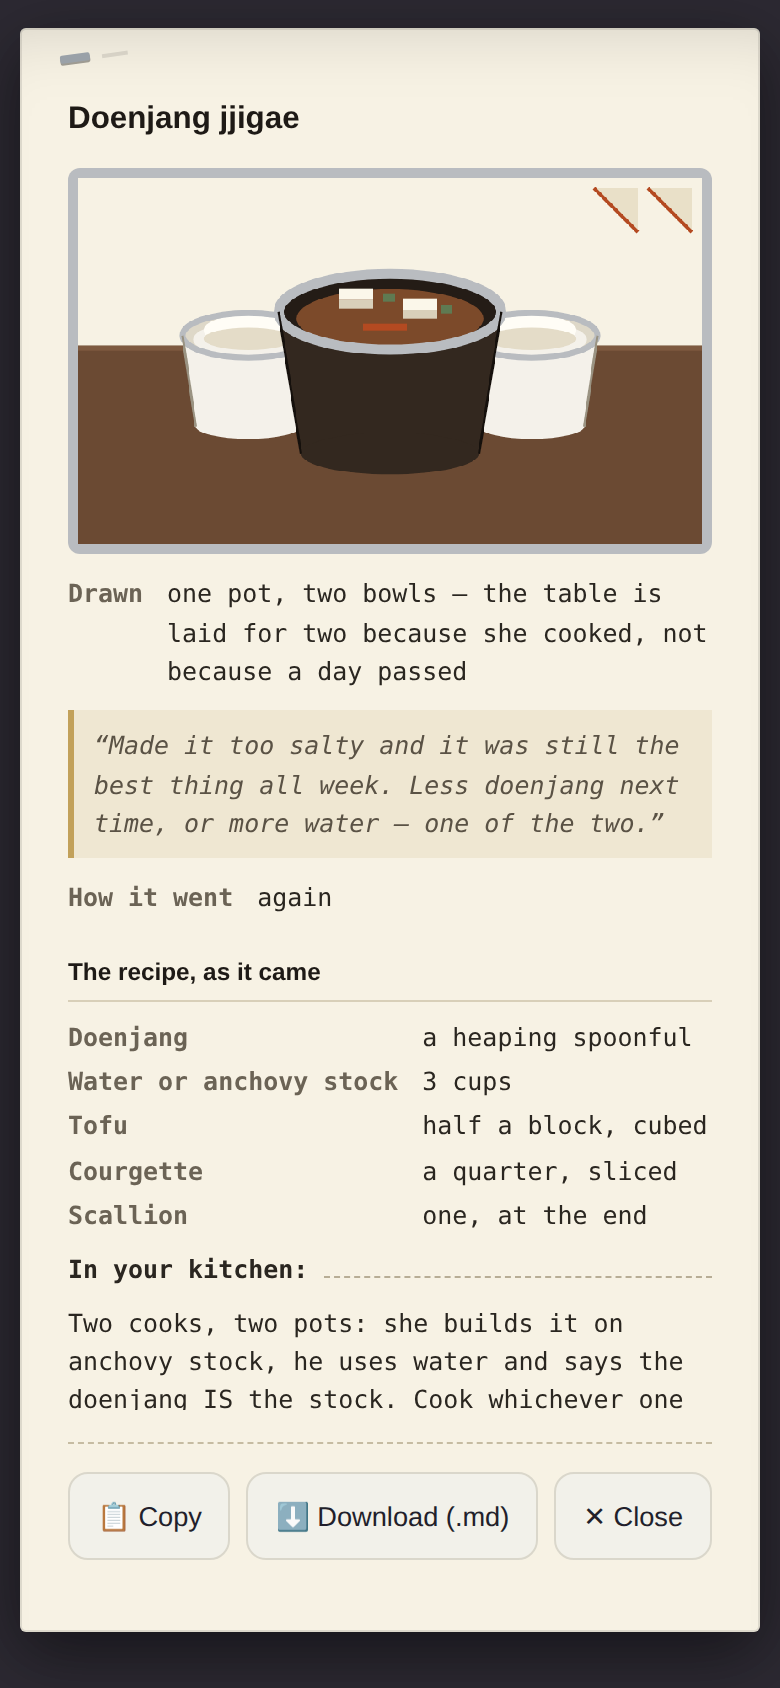
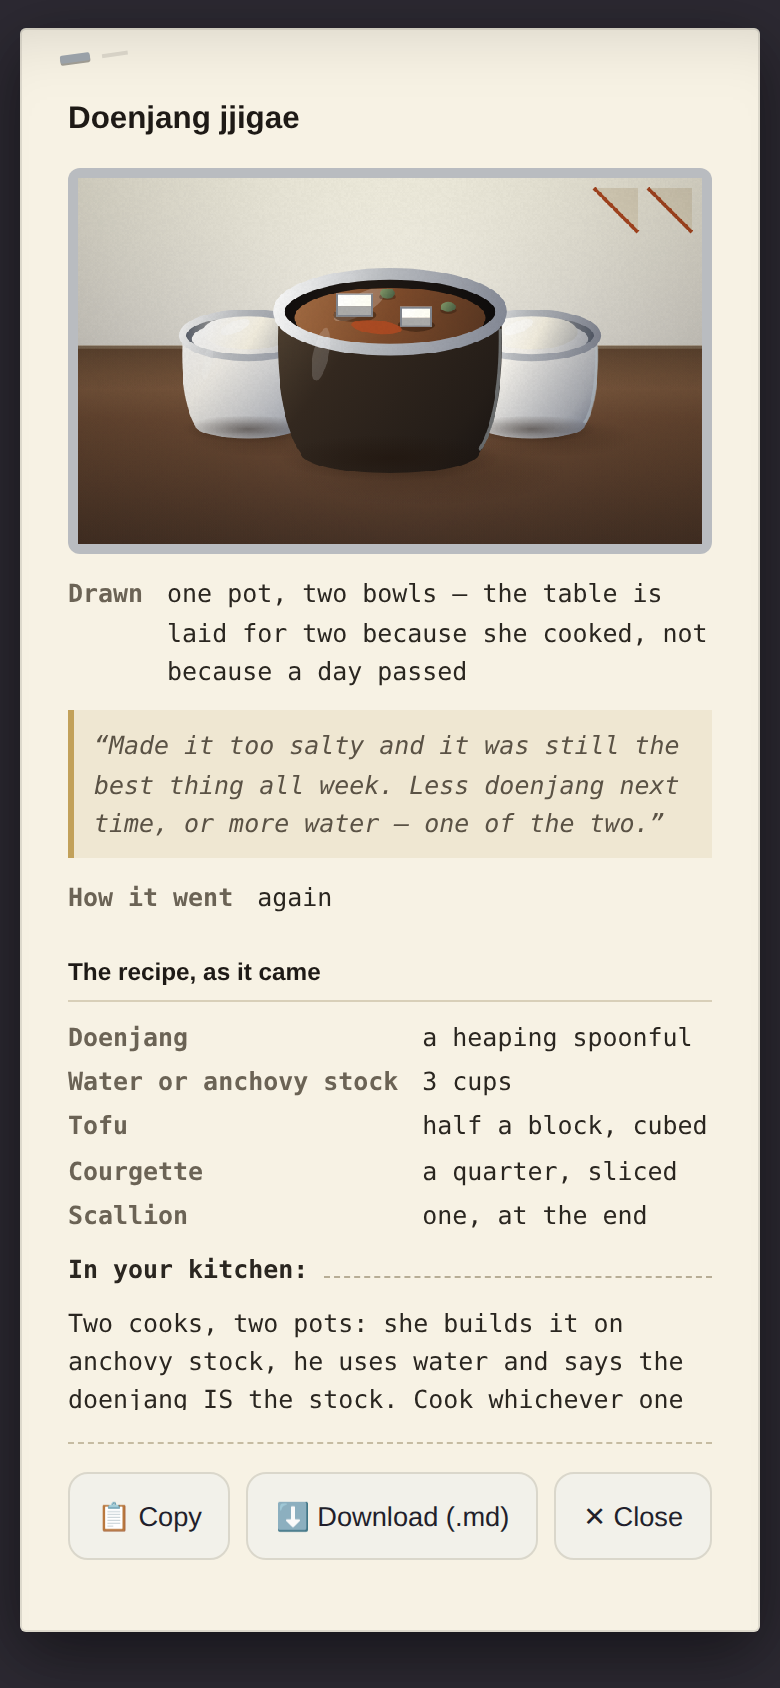
A light model for the mocks, because "cute" is what you say about slop
AJ laughed at the three pages and the owner called them "fairly slop shloppy",
then asked how to reach the quality of the games she actually plays. This is the
first half of the answer, and it is a missing MODEL rather than a missing knack.

What the first pass had: two values an object, no light direction, no contact
shadow, no cast shadow, no specular, no texture, hard geometric edges. That is
not a drawing, it is a diagram.

What every object goes through now, once, written as a library rather than per
object: a warm key from the upper left and a cool bounce off the counter; a
material as a five-stop ramp instead of a colour, warm on the way up and cool on
the way down, because a colour lightened neutrally is what makes plastic; a cast
shadow thrown away from the key; a contact shadow where any form meets its
surface; a mouth gradient so you look INTO a vessel; a rim that is bright where
the key hits and dark where it does not, instead of one flat stroke; one
specular sliver per glossy thing; and grain over the whole frame so no surface
is a flat fill.

The food got the same treatment on the second pass, because once the pot had a
light model and the tofu did not, the tofu looked WORSE than before — flat
rectangles floating on a lit surface.

compare-page1.png is the same page before and after, rendered from git so the
comparison is real rather than remembered.

This is necessary and it is not sufficient, and the write-up to the owner says
[…]

Changed region(s): [[0.0923, 0.0924, 0.9231, 0.3389]]

diff --git a/docs/mocks/2026-09-15-simmer-book/bookpages.js b/docs/mocks/2026-09-15-simmer-book/bookpages.js
@@ -31,6 +31,57 @@
     egg:"#E8C15A",
     nori:"#23301F"
   };
+  /* ---------------- THE LIGHT MODEL ----------------
+     The first pass of these pictures was flat canvas primitives: two values an object, no contact
+     shadow, no specular, no texture, no light direction. That is not a talent gap, it is a MISSING
+     MODEL — so this is the model, written once and applied by every object, the way the 3D view was
+     fixed (docs/3D-LOG.md): one warm key from the upper left, one cool bounce off the counter, a
+     contact shadow where any form meets its surface, one specular per glossy material, and grain
+     over the whole frame at the end so nothing is a vector shape sitting on paper. */
+  const KEY={x:-0.62,y:-0.78};                       /* upper-left, and every highlight obeys it */
+  const hex=h=>[parseInt(h.slice(1,3),16),parseInt(h.slice(3,5),16),parseInt(h.slice(5,7),16)];
+  const rgb=c=>"#"+c.map(v=>Math.max(0,Math.min(255,Math.round(v))).toString(16).padStart(2,"0")).join("");
+  /* warm on the way up, cool on the way down — a single colour lightened neutrally is what makes
+     plastic. Light adds red first; shadow keeps blue longest. */
+  const lit =(h,t)=>{const c=hex(h);return rgb([c[0]+255*t*0.92, c[1]+255*t*0.80, c[2]+255*t*0.58]);};
+  const shade=(h,t)=>{const c=hex(h);return rgb([c[0]*(1-t*1.05), c[1]*(1-t*0.98), c[2]*(1-t*0.80)]);};
+  /* a material is a RAMP, not a colour: five stops from bounce to specular */
+  const MAT=b=>({deep:shade(b,.55),core:shade(b,.28),base:b,high:lit(b,.16),spec:lit(b,.42)});
+
+  /* a contact shadow — the single cheapest thing that makes an object SIT rather than float */
+  function contact(g,cx,cy,rx,ry,strength){
+    const gr=g.createRadialGradient(cx,cy,0,cx,cy,rx);
+    gr.addColorStop(0,"rgba(30,18,10,"+(strength||0.55)+")");
+    gr.addColorStop(0.55,"rgba(30,18,10,"+(strength||0.55)*0.45+")");
+    gr.addColorStop(1,"rgba(30,18,10,0)");
+    g.save();g.translate(cx,cy);g.scale(1,ry/rx);g.translate(-cx,-cy);
+    g.fillStyle=gr;g.beginPath();g.arc(cx,cy,rx,0,7);g.fill();g.restore();
+  }
+  /* a cast shadow, thrown away from the key */
+  function cast(g,cx,cy,rx,ry){
+    g.save();g.globalAlpha=0.34;
+    contact(g,cx-KEY.x*rx*0.55,cy-KEY.y*ry*0.28,rx*1.25,ry*1.05,0.7);
+    g.restore();
+  }
+  /* one specular sliver, on the side the key is on, never a symmetric shine */
+  function spec(g,cx,cy,rx,ry,a){
+    g.save();g.globalAlpha=a==null?0.75:a;g.fillStyle="#FFFFFF";
+    g.beginPath();g.ellipse(cx+KEY.x*rx*0.52,cy+KEY.y*ry*0.55,rx*0.30,ry*0.34,-0.5,0,7);g.fill();
+    g.restore();
+  }
+  /* grain, over the FRAME, so no surface is a flat fill. Cheap and it is most of the difference
+     between "a shape" and "a thing". */
+  let NOISE=null;
+  function grain(g,W,H,amt){
+    if(!NOISE){const n=document.createElement("canvas");n.width=n.height=96;const q=n.getContext("2d");
+      const d=q.createImageData(96,96);
+      for(let i=0;i<d.data.length;i+=4){const v=200+Math.random()*55;d.data[i]=d.data[i+1]=d.data[i+2]=v;d.data[i+3]=255;}
+      q.putImageData(d,0,0);NOISE=n;}
+    g.save();g.globalAlpha=amt==null?0.085:amt;g.globalCompositeOperation="multiply";
+    for(let y=0;y<H;y+=96)for(let x=0;x<W;x+=96)g.drawImage(NOISE,x,y);
+    g.restore();
+  }
+
   const px=(g,u)=>(x,y,w,h,c)=>{g.fillStyle=c;g.fillRect(Math.round(x*u),Math.round(y*u),Math.max(1,Math.round(w*u)),Math.max(1,Math.round(h*u)));};
 
   /* A VESSEL, in the one camera Pili settled: where your eyes are at a counter — you see the MOUTH
@@ -38,29 +89,73 @@
      narrows to its foot, and a rim where the two meet. Not a rectangle — the first render of these
      drew boxes and they read as toasters. */
   function vessel(g,cx,baseY,w,h,o){
-    const ry=w*0.17, topY=baseY-h;
+    const ry=w*0.17, topY=baseY-h, M=MAT(o.body);
     g.save();
-    /* the body, narrowing toward the foot */
-    g.fillStyle=o.body;
+    /* 1 · the cast shadow, thrown away from the key, BEFORE anything else */
+    cast(g,cx,baseY+ry*0.30,w*0.50,ry*0.85);
+    /* 2 · the body, across the key axis: highlight, base, core shadow, and a bounce at the very edge */
+    const bg=g.createLinearGradient(cx-w*0.55,topY-h*0.2,cx+w*0.55,baseY+h*0.1);
+    bg.addColorStop(0,M.high);bg.addColorStop(0.34,M.base);bg.addColorStop(0.78,M.core);bg.addColorStop(1,M.deep);
+    g.fillStyle=bg;
     g.beginPath();
     g.moveTo(cx-w/2,topY);
-    g.lineTo(cx+w/2,topY);
+    g.bezierCurveTo(cx-w*0.52,topY+h*0.55, cx-w*0.46,baseY-h*0.12, cx-w*0.40,baseY);
     g.lineTo(cx+w*0.40,baseY);
-    g.lineTo(cx-w*0.40,baseY);
+    g.bezierCurveTo(cx+w*0.46,baseY-h*0.12, cx+w*0.52,topY+h*0.55, cx+w/2,topY);
     g.closePath();g.fill();
-    /* the foot it stands on */
-    g.beginPath();g.ellipse(cx,baseY,w*0.40,ry*0.55,0,0,7);g.fill();
-    /* the mouth: the dark inside first, so the contents sit IN something */
-    g.fillStyle=o.inside||"#1A1512";
-    g.beginPath();g.ellipse(cx,topY,w/2,ry,0,0,7);g.fill();
-    if(o.fill){g.fillStyle=o.fill;g.beginPath();g.ellipse(cx,topY+ry*0.18,w*0.42,ry*0.78,0,0,7);g.fill();}
+    g.beginPath();g.ellipse(cx,baseY,w*0.40,ry*0.52,0,0,7);g.fill();
+    /* 3 · the bounce off the counter — a cool edge on the shadow side, which is what stops a
+       gradient reading as plastic */
+    g.strokeStyle="rgba(196,208,214,0.45)";g.lineWidth=2;
+    g.beginPath();g.moveTo(cx+w*0.495,topY+h*0.12);
+    g.bezierCurveTo(cx+w*0.50,topY+h*0.6, cx+w*0.45,baseY-h*0.12, cx+w*0.40,baseY-2);g.stroke();
+    /* 4 · the contact shadow where it meets the counter */
+    contact(g,cx,baseY+ry*0.12,w*0.50,ry*0.62,0.5);
+    /* 5 · the mouth: dark interior, deepest at the far side, so you look INTO it */
+    const ig=g.createRadialGradient(cx+KEY.x*w*0.18,topY+KEY.y*ry*0.5,ry*0.2,cx,topY,w*0.52);
+    ig.addColorStop(0,shade(o.inside||"#1A1512",0.10));ig.addColorStop(1,shade(o.inside||"#1A1512",0.62));
+    g.fillStyle=ig;g.beginPath();g.ellipse(cx,topY,w/2,ry,0,0,7);g.fill();
+    /* 6 · what is in it, with its own light and a wet specular */
+    if(o.fill){
+      const F=MAT(o.fill);
+      const fg=g.createLinearGradient(cx-w*0.4,topY-ry,cx+w*0.4,topY+ry);
+      fg.addColorStop(0,F.high);fg.addColorStop(0.5,F.base);fg.addColorStop(1,F.core);
+      g.fillStyle=fg;g.beginPath();g.ellipse(cx,topY+ry*0.16,w*0.43,ry*0.80,0,0,7);g.fill();
+      if(o.wet!==false)spec(g,cx,topY+ry*0.16,w*0.43,ry*0.80,0.22);
+    }
     if(o.top)o.top(g,cx,topY,w,ry);
-    /* THE RIM — what makes it a bowl and not a lump. Stainless, and thick enough to survive 322px. */
-    g.strokeStyle=o.rim||P.steel;g.lineWidth=Math.max(3,w*0.045);
+    /* 7 · THE RIM, and it is not one colour: bright where the key hits, dark where it does not */
+    const rg=g.createLinearGradient(cx-w/2,topY-ry,cx+w/2,topY+ry);
+    const R=MAT(o.rim||P.steel);
+    rg.addColorStop(0,R.spec);rg.addColorStop(0.42,R.base);rg.addColorStop(1,R.core);
+    g.strokeStyle=rg;g.lineWidth=Math.max(3.5,w*0.052);
     g.beginPath();g.ellipse(cx,topY,w/2,ry,0,0,7);g.stroke();
-    /* and an outline on the body, or a white bowl on cream paper is Δ0.8 and disappears */
-    g.strokeStyle=o.edge||P.soft;g.lineWidth=1.5;
-    g.beginPath();g.moveTo(cx-w/2,topY);g.lineTo(cx-w*0.40,baseY);g.moveTo(cx+w/2,topY);g.lineTo(cx+w*0.40,baseY);g.stroke();
+    /* 8 · one specular sliver on the body, on the key side only */
+    g.save();g.globalAlpha=0.17;g.fillStyle="#FFFFFF";
+    g.beginPath();g.ellipse(cx-w*0.31,topY+h*0.30,w*0.035,h*0.19,0.20,0,7);g.fill();g.restore();
+    g.restore();
+  }
+  /* A PIECE OF FOOD IS A FORM TOO. Once the pot had a light model and the tofu did not, the tofu
+     looked WORSE than it had before — flat rectangles floating on a lit surface. Same six steps,
+     smaller: a shadow in the liquid, a lit top plane, a shaded side, one specular. */
+  function cube(g,x,y,w,h,base,o){
+    o=o||{};const M=MAT(base);
+    g.save();
+    g.fillStyle="rgba(24,12,6,0.38)";                      /* it sits IN something */
+    g.beginPath();g.ellipse(x+w*0.5,y+h*0.92,w*0.58,h*0.30,0,0,7);g.fill();
+    const tg=g.createLinearGradient(x,y,x+w,y+h*0.55);
+    tg.addColorStop(0,M.spec);tg.addColorStop(1,M.high);
+    g.fillStyle=tg;g.fillRect(x,y,w,h*0.55);               /* the top plane, facing the key */
+    g.fillStyle=M.core;g.fillRect(x,y+h*0.55,w,h*0.45);    /* the side, turned away */
+    g.fillStyle="rgba(255,255,255,0.55)";g.fillRect(x+w*0.12,y+h*0.10,w*0.34,h*0.14);
+    if(o.edge){g.strokeStyle=shade(base,0.45);g.lineWidth=1;g.strokeRect(x+0.5,y+0.5,w-1,h-1);}
+    g.restore();
+  }
+  function sliver(g,x,y,w,h,base){ /* a scallion round, a sesame seed — small, but lit the same way */
+    const M=MAT(base);g.save();
+    g.fillStyle="rgba(24,12,6,0.30)";g.beginPath();g.ellipse(x+w/2,y+h*0.85,w*0.55,h*0.34,0,0,7);g.fill();
+    const gr=g.createLinearGradient(x,y,x+w,y+h);gr.addColorStop(0,M.high);gr.addColorStop(1,M.core);
+    g.fillStyle=gr;g.beginPath();g.ellipse(x+w/2,y+h/2,w/2,h/2,0,0,7);g.fill();
     g.restore();
   }
   /* her private mark: the page's own corner, turned over. One, two or three. Never a star, and big
@@ -78,11 +173,26 @@
   /* the frame: the kitchen's ACCENT, never its ground — an edge on either paper (§19.4) */
   function plate(draw){
     return function(g,W,H){
-      g.fillStyle=P.paper;g.fillRect(0,0,W,H);
       const cy=H*0.46;
-      g.fillStyle=P.onggi;g.fillRect(0,cy,W,H-cy);                 /* the counter, and things STAND on it */
-      g.fillStyle="#7E5A40";g.fillRect(0,cy,W,3);                  /* its lit front edge */
+      /* the wall behind: not a flat fill — light falls off toward the bottom of it */
+      const wall=g.createLinearGradient(0,0,0,cy);
+      wall.addColorStop(0,lit(P.paper,0.05));wall.addColorStop(1,shade(P.paper,0.10));
+      g.fillStyle=wall;g.fillRect(0,0,W,cy);
+      /* the counter, running away from you: lit at the back edge, darker at the front */
+      const top=g.createLinearGradient(0,cy,0,H);
+      top.addColorStop(0,lit(P.onggi,0.16));top.addColorStop(0.35,P.onggi);top.addColorStop(1,shade(P.onggi,0.34));
+      g.fillStyle=top;g.fillRect(0,cy,W,H-cy);
+      g.fillStyle="rgba(255,236,200,0.5)";g.fillRect(0,cy,W,2);     /* the lit front edge of the wall join */
+      /* the wall's own shadow where it meets the counter — the seam that makes two planes */
+      const seam=g.createLinearGradient(0,cy,0,cy+26);
+      seam.addColorStop(0,"rgba(26,16,10,0.42)");seam.addColorStop(1,"rgba(26,16,10,0)");
+      g.fillStyle=seam;g.fillRect(0,cy,W,26);
       draw(g,W,H,cy);
+      /* a vignette, so the eye goes to the middle */
+      const vg=g.createRadialGradient(W/2,H*0.55,Math.min(W,H)*0.28,W/2,H*0.55,Math.max(W,H)*0.78);
+      vg.addColorStop(0,"rgba(0,0,0,0)");vg.addColorStop(1,"rgba(28,18,10,0.30)");
+      g.fillStyle=vg;g.fillRect(0,0,W,H);
+      grain(g,W,H,0.09);
       g.fillStyle=P.steel;g.fillRect(0,0,W,6);g.fillRect(0,H-6,W,6);g.fillRect(0,0,6,H);g.fillRect(W-6,0,6,H);
     };
   }
@@ -92,20 +202,22 @@
     const base=cy+48;
     const rice=(g,cx,ty,w,ry)=>{ /* a mound, not a flat disc: white rice in a white bowl needs its own
         shadow or it is the bowl (the porcelain/paper Δ0.8 problem one layer further in) */
-      g.fillStyle="#FFFDF6";g.beginPath();g.ellipse(cx,ty-3,w*0.34,ry*0.72,0,0,7);g.fill();
-      g.fillStyle="#E4DCC8";g.beginPath();g.ellipse(cx,ty+2,w*0.34,ry*0.5,0,0,7);g.fill();};
+      const R=MAT("#F6F1E2");
+      const gr=g.createLinearGradient(cx-w*0.3,ty-ry,cx+w*0.3,ty+ry);
+      gr.addColorStop(0,R.spec);gr.addColorStop(0.55,R.base);gr.addColorStop(1,R.core);
+      g.fillStyle=gr;g.beginPath();g.ellipse(cx,ty-2,w*0.35,ry*0.78,0,0,7);g.fill();
+      g.fillStyle="rgba(255,255,255,0.5)";g.beginPath();g.ellipse(cx-w*0.10,ty-5,w*0.12,ry*0.26,-0.4,0,7);g.fill();};
     vessel(g, W*0.28, base, 78, 54, {body:P.porcelain, fill:P.porcelain, inside:"#DED8C8", edge:"#9A9382", top:rice});
     vessel(g, W*0.72, base, 78, 54, {body:P.porcelain, fill:P.porcelain, inside:"#DED8C8", edge:"#9A9382", top:rice});
     /* the pot: the biggest mass, a 2:1 ladder over the bowls, and the black ttukbaegi that was a hole
        in the page now carries a steel rim — the un-clichéd Korean note doing structural work */
     vessel(g, W*0.5, base+16, 132, 84, {body:"#33281F", fill:P.broth, inside:"#241C16", edge:"#15100C", top:(g,cx,ty,w,ry)=>{
-      /* two cubes of tofu, each with a lit top and a shaded side, because a flat white rectangle in
-         brown broth reads as confetti — it did, in the first render */
-      [[-30,-6],[8,0]].forEach(([a,b])=>{
-        g.fillStyle="#FBF7EA";g.fillRect(cx+a,ty+b-8,20,7);
-        g.fillStyle="#D9D0BA";g.fillRect(cx+a,ty+b-1,20,5);});
-      g.fillStyle=P.scallion;g.fillRect(cx-4,ty-11,7,5);g.fillRect(cx+30,ty-4,7,5);
-      g.fillStyle=P.gochu;g.fillRect(cx-16,ty+7,26,4);                                   /* chilli on pale broth, never on the brown */
+      cube(g,cx-32,ty-11,22,14,"#F2ECDA",{edge:true});      /* tofu, breaking the rim line */
+      cube(g,cx+6,ty-3,19,12,"#F2ECDA",{edge:true});
+      sliver(g,cx-6,ty-14,9,6,P.scallion);
+      sliver(g,cx+30,ty-6,9,6,P.scallion);
+      g.save();g.globalAlpha=0.8;g.fillStyle=P.gochu;                                    /* chilli oil ON the broth, never on the brown */
+      g.beginPath();g.ellipse(cx-8,ty+9,15,4,0.1,0,7);g.fill();g.restore();
     }});
     folds(g,W,H,2);
   });
